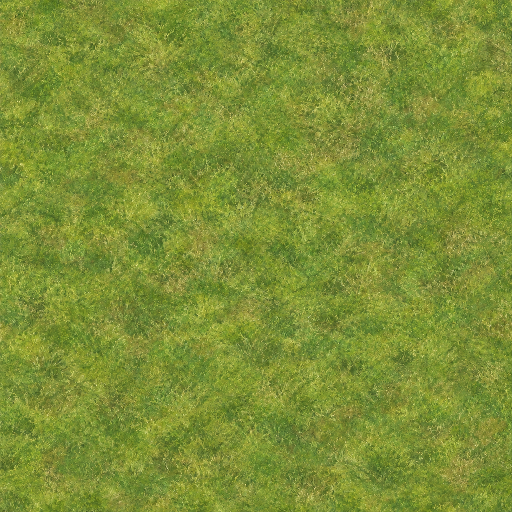
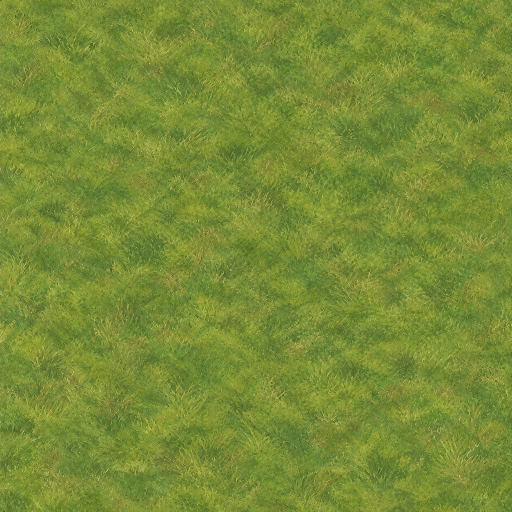
art: quiet seasonal meadow textures without increasing render budget (v0.3.62)

Changed region(s): [[0.0, 0.0, 1.0, 1.0]]

diff --git a/js/core.js b/js/core.js
@@ -6,7 +6,7 @@
 window.G = {};
 
 /* 游戏版本：进反馈 payload 与结算画面——反馈可归因到数值补丁（发版时手动递增） */
-G.VERSION = '0.3.61';
+G.VERSION = '0.3.62';
 
 /* ---------- 常量 ---------- */
 G.TILE_W = 64;            // 等距菱形瓦片宽（缩放 1 时的像素）

diff --git a/tests/art_assets.py b/tests/art_assets.py
@@ -92,3 +92,14 @@ for stage in ['stage0','stage1','stage2','ripe']:
     assert all(a.getpixel(p) == 0 for p in [(0,0),(127,0),(0,95),(127,95)]), file
     assert a.getbbox(), file
     print(file, im.size, 'cabbage crop size and alpha: OK')
+
+# Revised meadow keeps the current decoded texture budget and stays opaque.
+meadow_bytes = 0
+for season in ['spring', 'summer', 'autumn', 'winter']:
+    file = ROOT / 'assets' / 'terrain-v2' / ('meadow_' + season + '.png')
+    im = Image.open(file)
+    assert im.size == (512, 512), file
+    assert im.convert('RGBA').getchannel('A').getextrema() == (255, 255), file
+    meadow_bytes += file.stat().st_size
+assert meadow_bytes <= 2655092, 'four-meadow compressed budget must not exceed previous version'
+print('Four meadow textures: opaque 512-square, decoded 4 MiB, compressed', meadow_bytes, 'bytes')

diff --git a/docs/terrain-presentation.md b/docs/terrain-presentation.md
@@ -15,7 +15,18 @@ Five decoded RGBA surfaces total about 5 MiB, compressed files about 3 MiB. They
 ## Verification and remaining visual issues
 
 - `node tests/terrain-presentation.js`: PNG dimensions; context-local pattern reuse; world coordinates; replacement/missing-image fallback; seasonal meadow; blue autumn water; ice/road/shore distinctions; no simulation RNG.
-- `node tests/art_assets.js`: all 98 declared PNGs exist and load through the manifest.
+- `node tests/art_assets.js`: all declared PNGs exist and load through the manifest.
 - Actual game Canvas renderer plus PNGs was rendered offline for the same seed/camera, four seasons, five legal-footprint houses and two docks. This is a synthetic developed scene, not the user's save or a browser screenshot. Both the supplied screenshots and generated comparisons were inspected as pixels.
 - The grass has fewer bright repeated marks and grid lines; autumn water stays visibly blue. Stepped sand banks and repeated shoreline tiles are still visible. This patch does not claim that all terrain now looks natural.
 - True browser/touch controls, phone frame rate, power use and subjective playability remain unverified. Existing environment restrictions were not bypassed.
+
+
+## v0.3.62: quieter seasonal meadow
+
+The four meadow PNGs were edited with built-in imagegen using the complete original art specification and the current terrain/building references. Spring establishes the quieter hand-painted detail; summer, autumn and winter use that spring reference while retaining deep green, muted dry ochre and cool pale snow respectively. Prompts request flat top-down, uniformly lit, seamless opaque material; no diamond, objects, flowers, bright pinpoints, dense grain, border, grid, vignette or baked shadow. The generator outputs were only whole-image resized to the existing 512×512 assets, without a script recoloring, blurring or masking the artwork.
+
+This is a moderate reduction of busy grass detail, not elimination of repetition. All four textures still repeat every eight tiles per axis. Large-scale tonal repetition remains visible in long views. No sampling, cache allocation, animation, simulation RNG, road, river or seasonal-water routing code changed; blue unfrozen autumn water and existing winter ice remain intact. There is no permanent placement grid.
+
+The four files total 2,199,175 bytes, down from 2,655,092. Their decoded RGBA footprint remains exactly 4 MiB. This is an asset budget comparison, not a measured browser/mobile frame-rate claim. Source horizontal adjacent-pixel RGB differences dropped from 14.38/14.85/13.32/9.81 to 8.71/7.68/8.59/4.89 (spring through winter); this only describes reduced fine variation, not an objective score of naturalness or seam quality.
+
+Verification uses the actual half-resolution ground-cache builder and native-scale Canvas renderer in the same long-distance four-season scene with houses, storage, construction, market, road and water. Before/after images were inspected; the terrain pattern/cache/season/fallback regressions and asset size/opacity/budget checks pass. No real browser or phone acceptance was performed. Existing character animation and any other old asset remnants remain separate follow-up work.

diff --git a/README.md b/README.md
@@ -1,6 +1,8 @@
 # 归园 · 放逐小镇（Banished 复刻原型）
 
-当前版本：**0.3.61**。
+当前版本：**0.3.62**。
+
+0.3.62 调整四季草地为更安静的手绘纹理，压低密集亮点，让建筑更清楚。贴图尺寸、缓存、连续平铺与水体规则不变；远景8格周期仍在，不宣称消除重复。详见 [地面呈现](docs/terrain-presentation.md)。
 
 0.3.61 清理仓库右下外来屋顶片和大型工地残留文字，保留既有建筑尺度与风格；修正旧图集切片器的主体选择并保护已独立修整素材。草地与人物动画未在本片改动，详见 [美术残片清理](docs/art-cleanup.md)。
 
